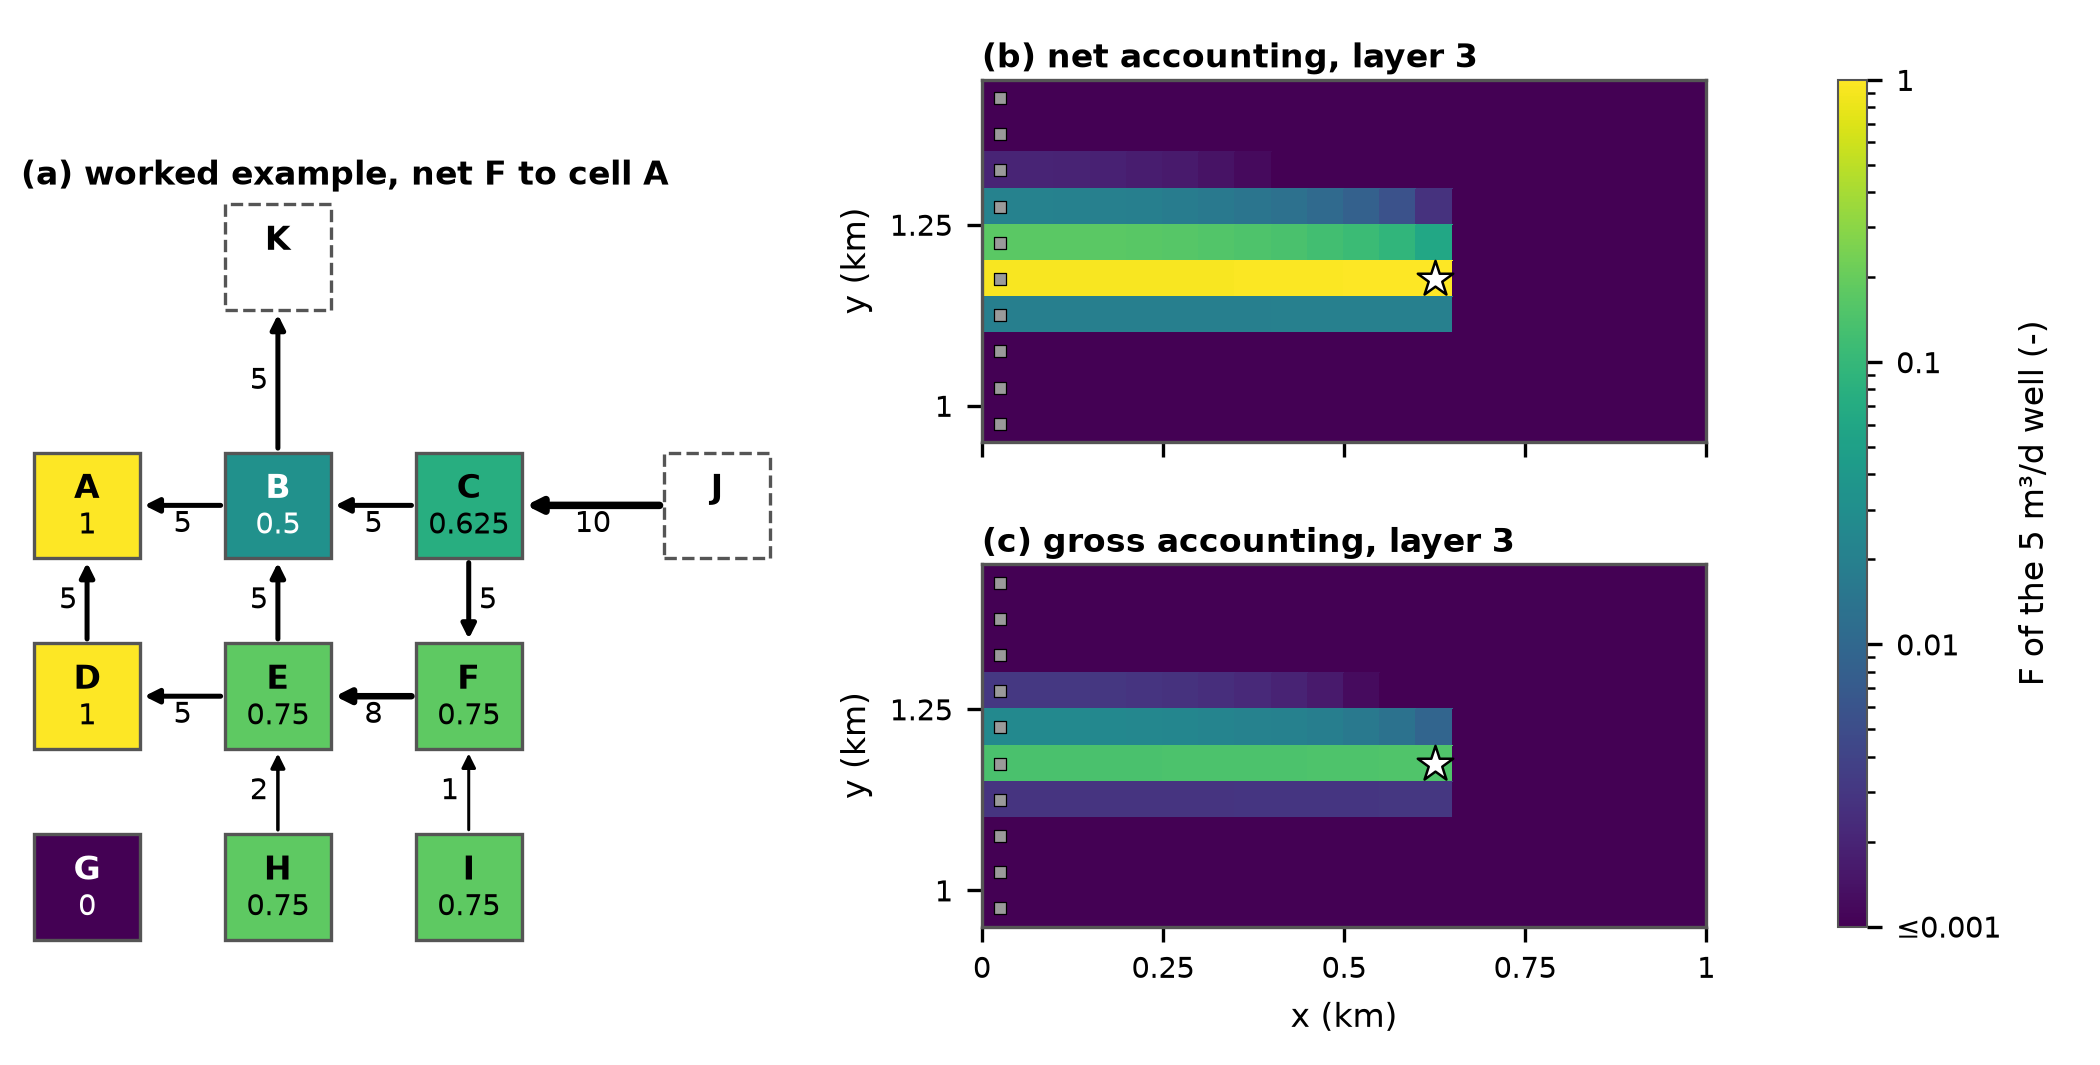
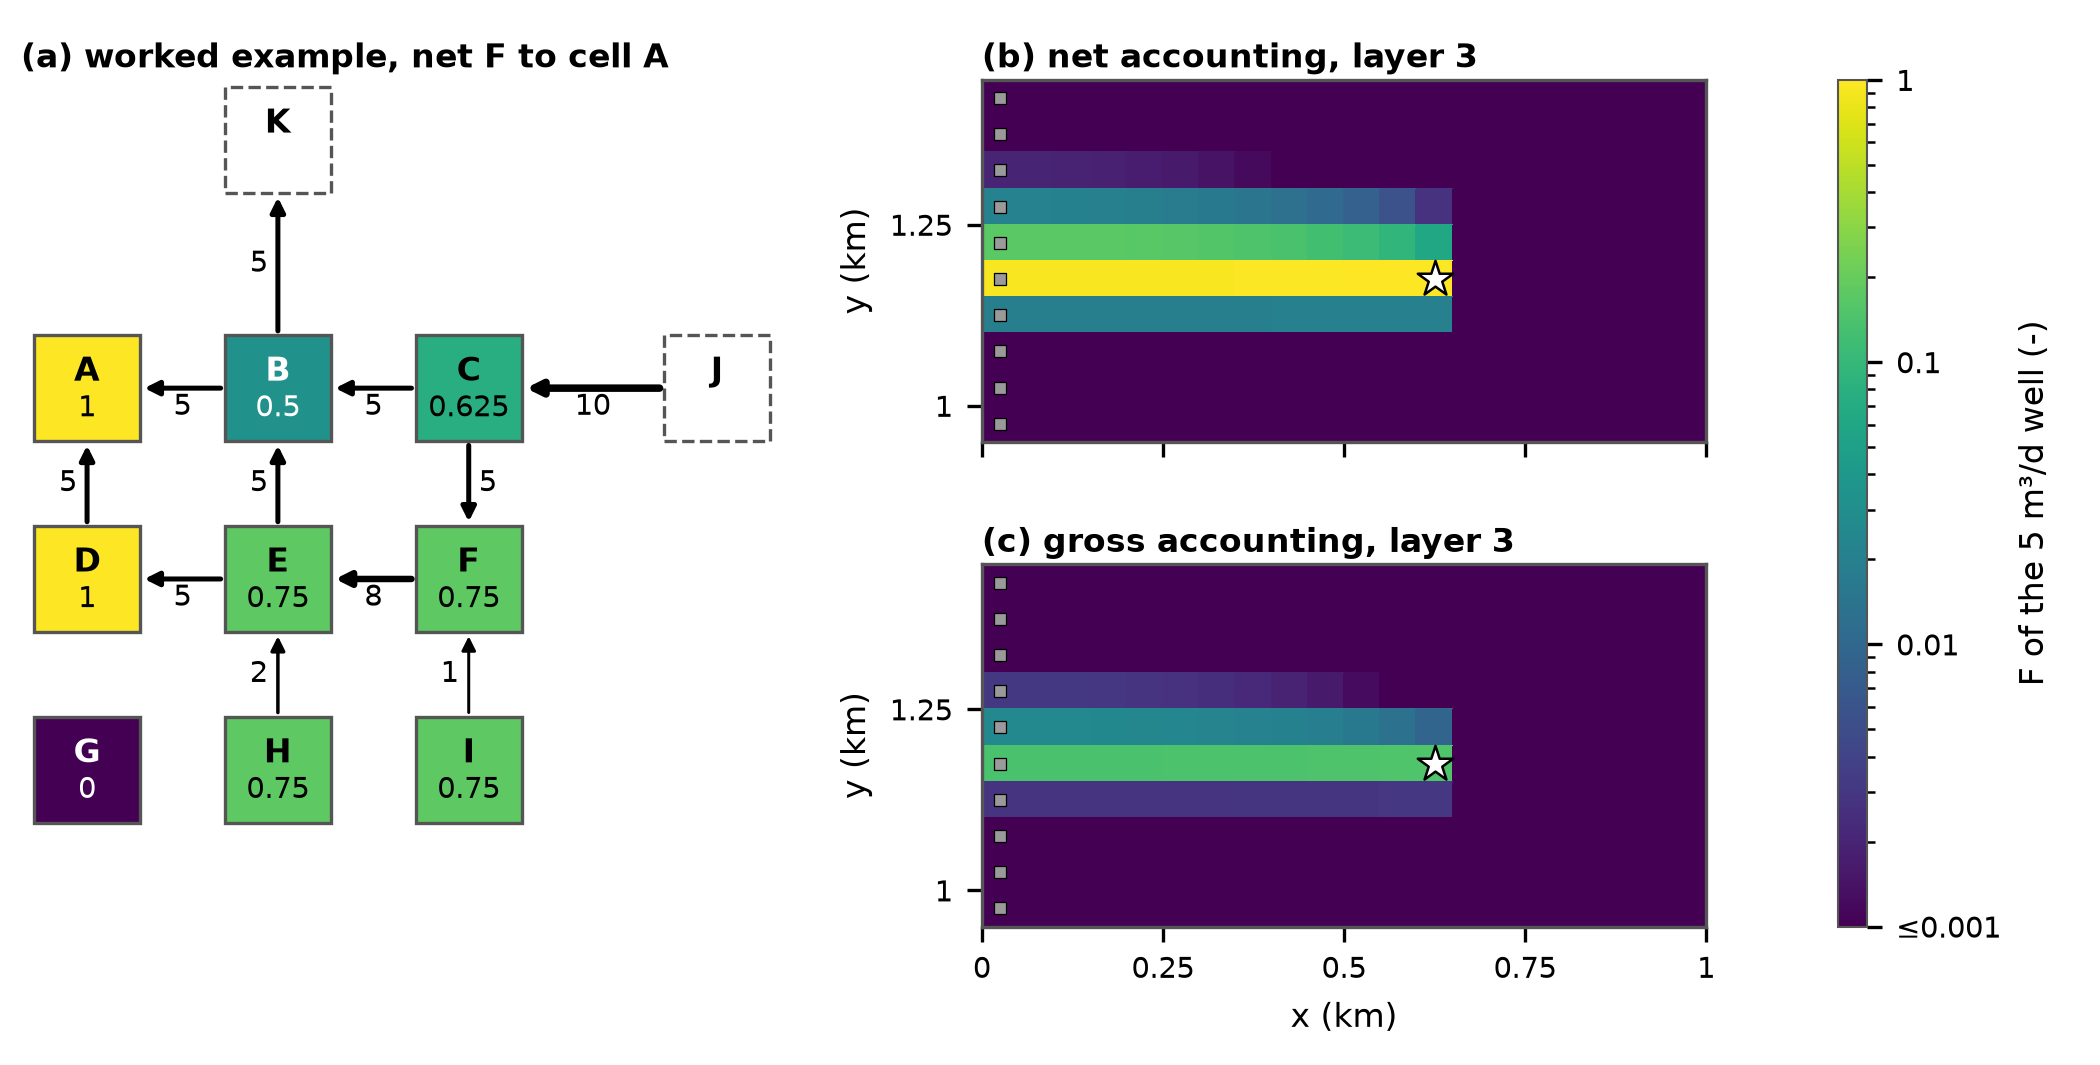
Fig. 3: panel (a) aligned with the top of panel (b)

Changed region(s): [[0.0, 0.1549, 0.3714, 0.8986], [0.0, 0.031, 0.3405, 0.1239], [0.3095, 0.4028, 0.3714, 0.4648]]

diff --git a/studies/paper/example_figures.py b/studies/paper/example_figures.py
@@ -699,8 +699,9 @@ def weak_map(ax, hbd, data: dict, f: np.ndarray, layer: int, norm):
 def make_fig3(out_dir: Path, hbd, helpers, data: dict) -> list[Path]:
     """Fig. 3: the worked example and net against gross F of a weak sink (Section 4.2)."""
     fig = plt.figure(figsize=(mfig.FULL_WIDTH, 3.55))
-    ax_a = fig.add_axes((0.01, 0.03, 0.36, 0.86))
+    ax_a = fig.add_axes((0.01, 0.065, 0.36, 0.86))  # top at 0.925, level with panel (b)
     draw_worked_example(ax_a, helpers, data["fb13"]["f"])
+    ax_a.set_anchor("N")  # the equal-aspect drawing sits at the top of its box
     panel_title(ax_a, "(a) worked example, net F to cell A")
     norm = LogNorm(1e-3, 1.0)
     layer = data["weak_cellid"][0]
